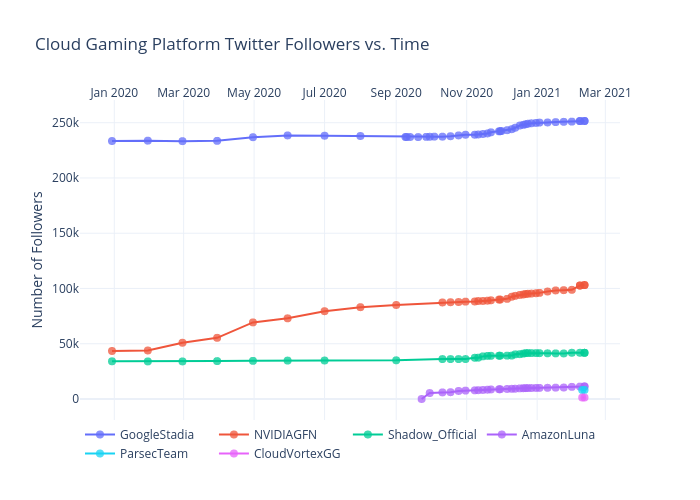
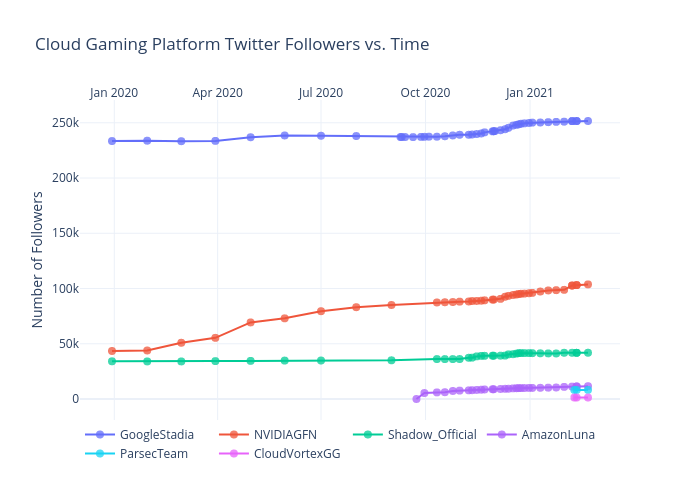
Add files via upload

diff --git a/twitter_platforms/figure.js b/twitter_platforms/figure.js
@@ -68,7 +68,8 @@ var figure = {
                 "2021-02-14",
                 "2021-02-07",
                 "2021-02-09",
-                "2021-02-11"
+                "2021-02-11",
+                "2021-02-21"
             ],
             "ysrc": "jdeslip:370:ee26dc",
             "y": [
@@ -128,7 +129,8 @@ var figure = {
                 "",
                 "251501",
                 "",
-                "251558"
+                "251558",
+                "251595"
             ],
             "marker": {
                 "size": 8,
@@ -206,7 +208,8 @@ var figure = {
                 "2021-02-14",
                 "2021-02-07",
                 "2021-02-09",
-                "2021-02-11"
+                "2021-02-11",
+                "2021-02-21"
             ],
             "ysrc": "jdeslip:370:ecdd8c",
             "y": [
@@ -266,7 +269,8 @@ var figure = {
                 "",
                 "102681",
                 "",
-                "103094"
+                "103094",
+                "103717"
             ],
             "marker": {
                 "size": 8,
@@ -344,7 +348,8 @@ var figure = {
                 "2021-02-14",
                 "2021-02-07",
                 "2021-02-09",
-                "2021-02-11"
+                "2021-02-11",
+                "2021-02-21"
             ],
             "ysrc": "jdeslip:370:f70ba2",
             "y": [
@@ -404,7 +409,8 @@ var figure = {
                 "",
                 "",
                 "",
-                "41804"
+                "41804",
+                "41868"
             ],
             "marker": {
                 "size": 8,
@@ -482,7 +488,8 @@ var figure = {
                 "2021-02-14",
                 "2021-02-07",
                 "2021-02-09",
-                "2021-02-11"
+                "2021-02-11",
+                "2021-02-21"
             ],
             "ysrc": "jdeslip:370:f5891a",
             "y": [
@@ -542,7 +549,8 @@ var figure = {
                 "",
                 null,
                 "",
-                "11332"
+                "11332",
+                "11591"
             ],
             "marker": {
                 "size": 8,
@@ -620,7 +628,8 @@ var figure = {
                 "2021-02-14",
                 "2021-02-07",
                 "2021-02-09",
-                "2021-02-11"
+                "2021-02-11",
+                "2021-02-21"
             ],
             "ysrc": "jdeslip:370:6c8242",
             "y": [
@@ -680,7 +689,8 @@ var figure = {
                 "",
                 "",
                 "8171",
-                "8183"
+                "8183",
+                "8274"
             ],
             "marker": {
                 "size": 8,
@@ -758,7 +768,8 @@ var figure = {
                 "2021-02-14",
                 "2021-02-07",
                 "2021-02-09",
-                "2021-02-11"
+                "2021-02-11",
+                "2021-02-21"
             ],
             "ysrc": "jdeslip:370:637046",
             "y": [
@@ -818,7 +829,8 @@ var figure = {
                 "",
                 "",
                 "1334",
-                "1336"
+                "1336",
+                "1338"
             ],
             "marker": {
                 "size": 8,
@@ -837,8 +849,8 @@ var figure = {
             "side": "top",
             "type": "date",
             "range": [
-                "2019-12-04 12:37:48.5488",
-                "2021-03-11 11:22:11.4512"
+                "2019-12-04 02:14:34.0824",
+                "2021-03-18 21:45:25.9176"
             ],
             "title": {
                 "text": ""
@@ -848,8 +860,8 @@ var figure = {
         "yaxis": {
             "type": "linear",
             "range": [
-                -20316.390199637026,
-                271874.39019963704
+                -18002.11848545926,
+                269597.11848545924
             ],
             "title": {
                 "text": "Number of Followers"
